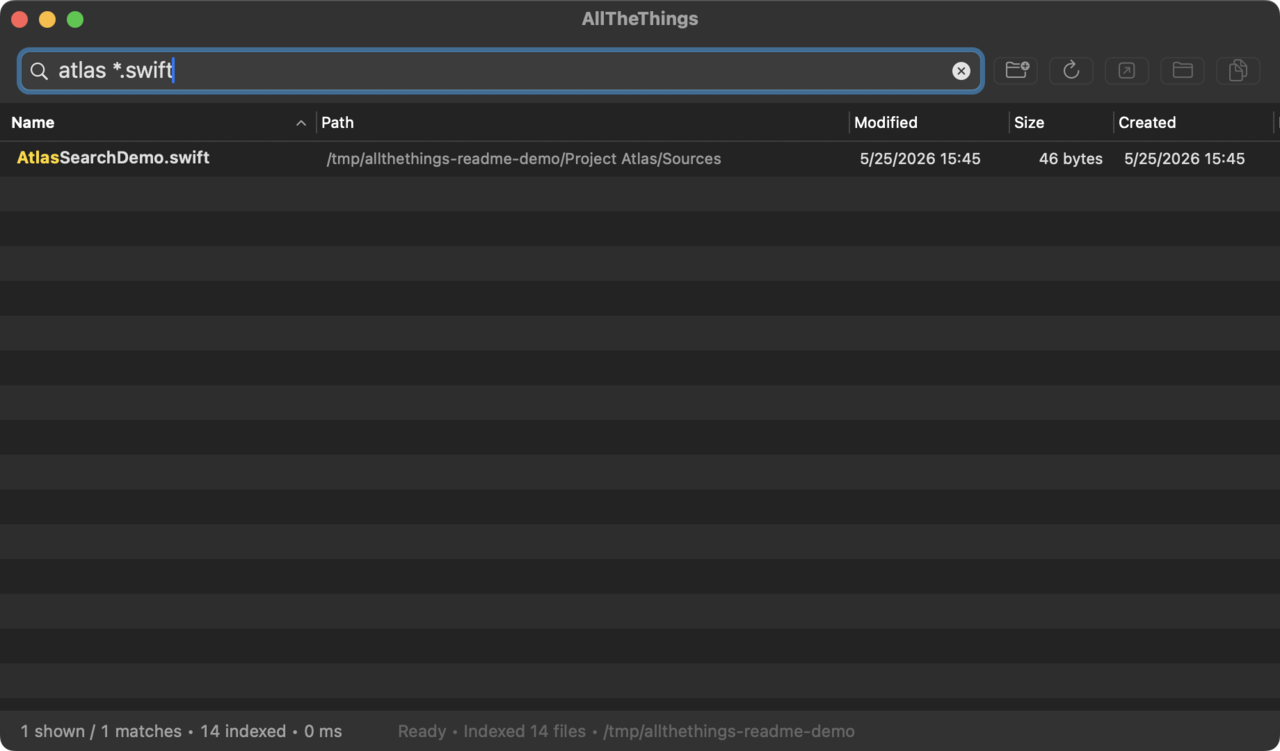
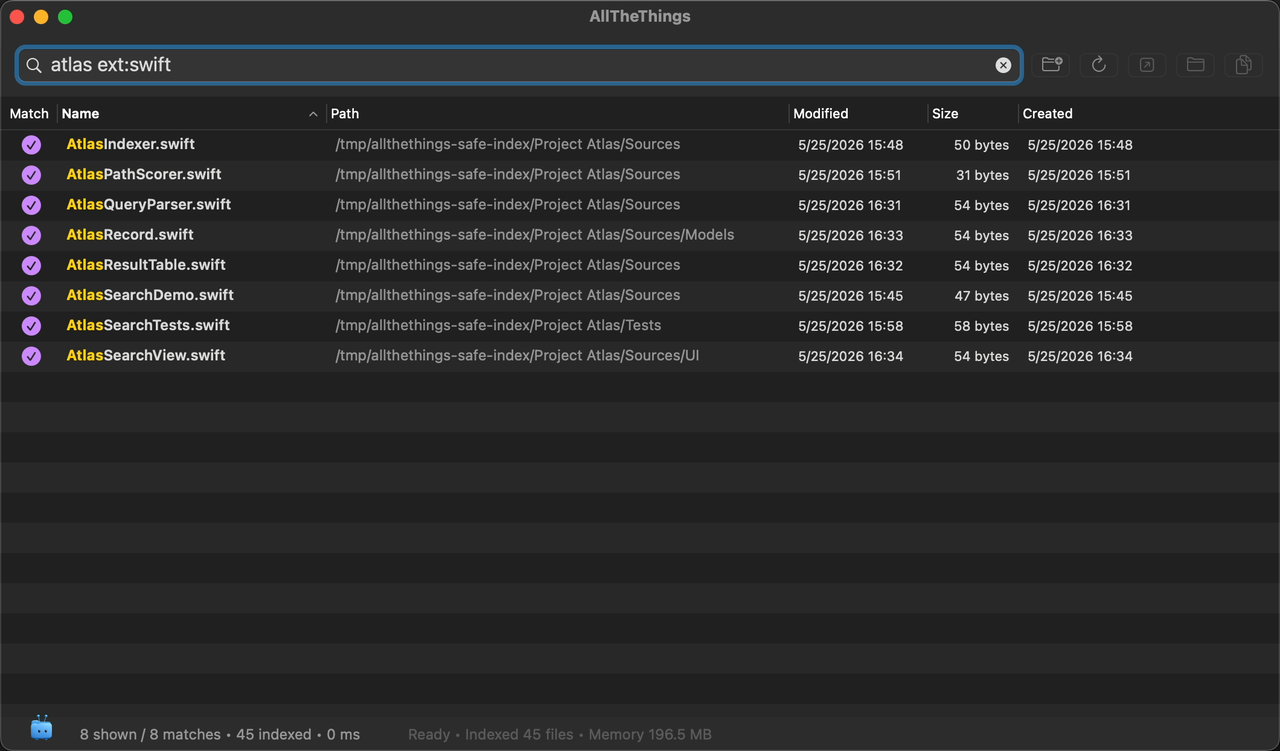
Narrow match column and refresh demo assets

diff --git a/Sources/AllTheThings/SearchWindowController.swift b/Sources/AllTheThings/SearchWindowController.swift
@@ -82,7 +82,7 @@ private final class SearchViewController: NSViewController, NSTableViewDataSourc
 
         var width: CGFloat {
             switch self {
-            case .match: 48
+            case .match: 40
             case .name: 220
             case .path: 380
             case .modified: 112

diff --git a/README.md b/README.md
@@ -4,7 +4,7 @@ AllTheThings is a native macOS file-search app built for one fast loop: type a f
 
 <picture>
   <source srcset="docs/images/allthethings-demo.webp" type="image/webp">
-  <img src="docs/images/allthethings-demo.png" alt="AllTheThings filtering a sample project folder with atlas *.swift">
+  <img src="docs/images/allthethings-demo.png" alt="AllTheThings filtering a safe demo folder for atlas Swift files with match indicators">
 </picture>
 
 ## Requirements